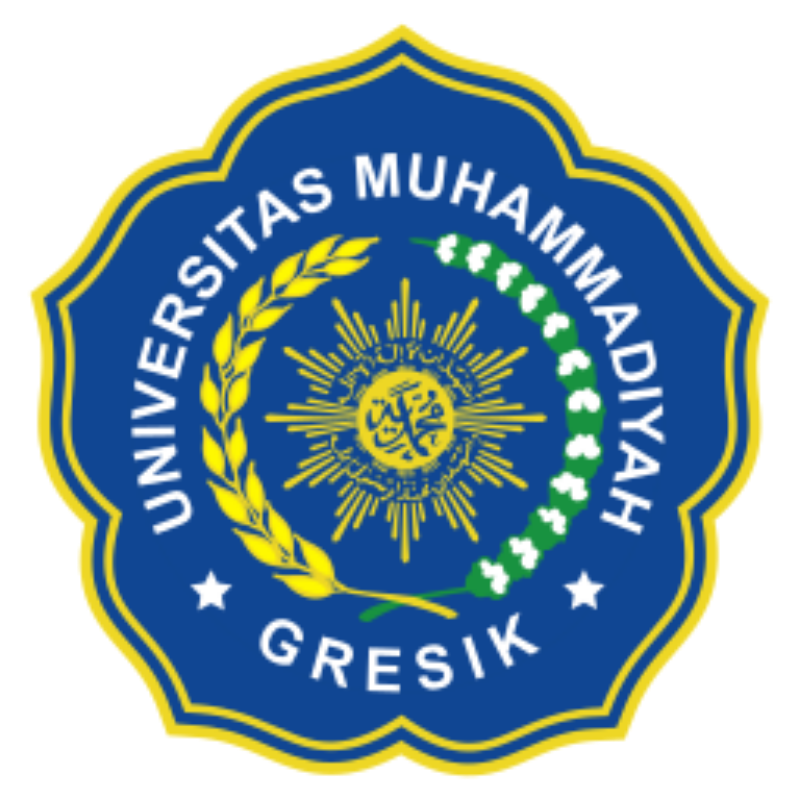
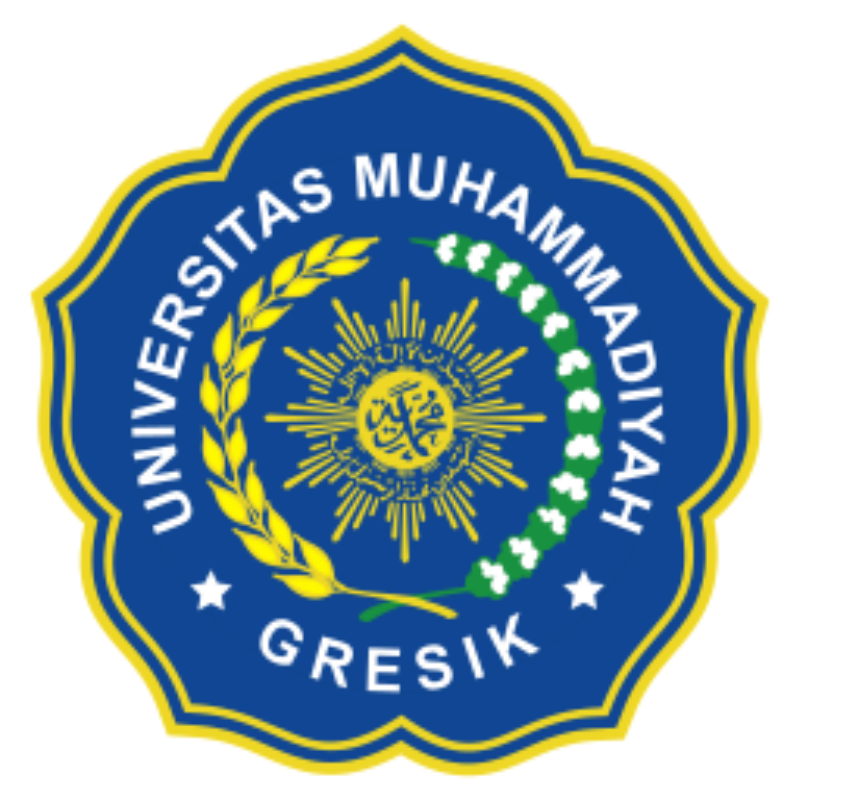
update sponsor

diff --git a/src/Containers/Sponsor.js b/src/Containers/Sponsor.js
@@ -1,5 +1,6 @@
 import React from 'react';
 import unmuh from '../assets/unmuh.png';
+import sakti from '../assets/sakti.png';
 
 
 const Image = props => {
@@ -20,7 +21,12 @@ class Sponsor extends React.Component{
                                     src={unmuh}
                                 />
                             </li>
-                            
+                            <li className="list-inline-item">
+                                <Image
+                                    name="Universitas Muhammadiyah Gresik"
+                                    src={sakti}
+                                />
+                            </li>
                         </ul>
                     </div>
                 </div>
